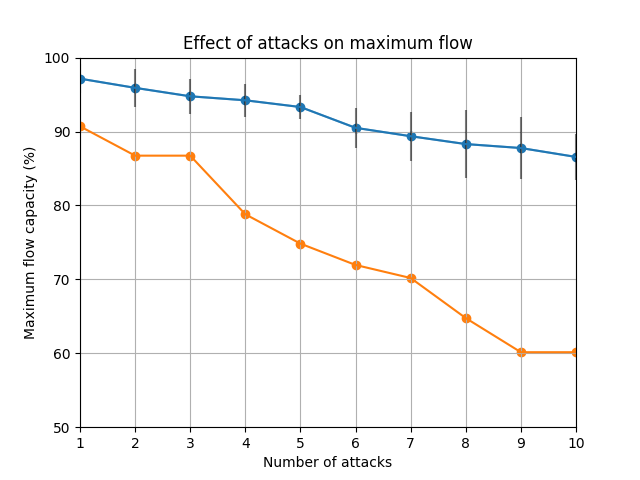
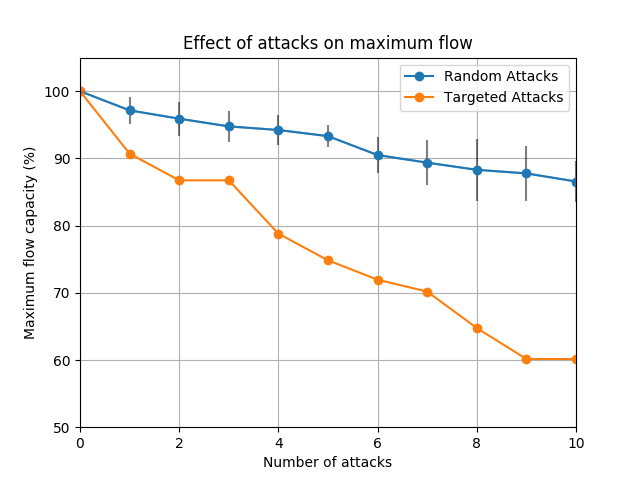
code update

diff --git a/plot_results.py b/plot_results.py
@@ -23,7 +23,7 @@ def plot_results():
 	markerline, stemline, baseline, = ax.stem(node_array, node_centrality_array)
 	plt.setp(markerline, markersize = 3)
 	ax.set_xlim([0,120])
-	ax.set_ylim([0,0.15])
+	ax.set_ylim([0,0.103])
 	ax.set_xlabel('Bus Number')
 	ax.set_ylabel('Centrality index')
 	ax.set_title('Centrality indices for IEEE 118 Bus System')
@@ -36,7 +36,7 @@ def get_attacks_data():
 	with open("data_files/attacks_data.csv",'r') as csvfile:
 		plots = csv.reader(csvfile, delimiter=',')
 		for row in plots:
-			data = []
+			data = [100]
 			for i in range(len(row)-2):
 				data.append(float(row[i+1]))
 			if row[0] == "Random":
@@ -49,25 +49,24 @@ def get_attacks_data():
 		data1 = [a[i] for a in random_attacks_data]
 		random_attacks_mean.append(mean(data1))
 		random_attacks_sd.append(stdev(data1))
-	# print(random_attacks_sd)
-	x_data = [(i+1) for i in range(len(random_attacks_mean))]
+
+	x_data = [i for i in range(len(random_attacks_mean))]
 	fig = plt.figure(2)
 	ax = fig.add_subplot(111)
-	ax.plot(x_data, random_attacks_mean, label='Random Attacks')
-	ax.scatter(x_data, random_attacks_mean)
-	ax.plot(x_data, target_attacks_data, label = 'Targeted Attacks')
-	ax.scatter(x_data, target_attacks_data)
+	ax.plot(x_data, random_attacks_mean, marker='o', label='Random Attacks')
+	ax.plot(x_data, target_attacks_data, marker='o', label = 'Targeted Attacks')
 	ax.errorbar(x_data, random_attacks_mean, yerr=random_attacks_sd, alpha=0.5, ecolor='black')
-	ax.set_xlim([1,len(random_attacks_mean)])
-	ax.set_ylim([50,100])
+	ax.set_xlim([0,len(random_attacks_mean)-1])
+	ax.set_ylim([50,105])
 	ax.set_xlabel('Number of attacks')
 	ax.set_ylabel('Maximum flow capacity (%)')
 	ax.set_title('Effect of attacks on maximum flow')
 	ax.grid()
+	ax.legend()
 	fig.savefig('images/attacks.png')
 
 if __name__ == '__main__':
-	# get_data_from_files()
-	# plot_results()
+	get_data_from_files()
+	plot_results()
 	get_attacks_data()
 	plt.show()
